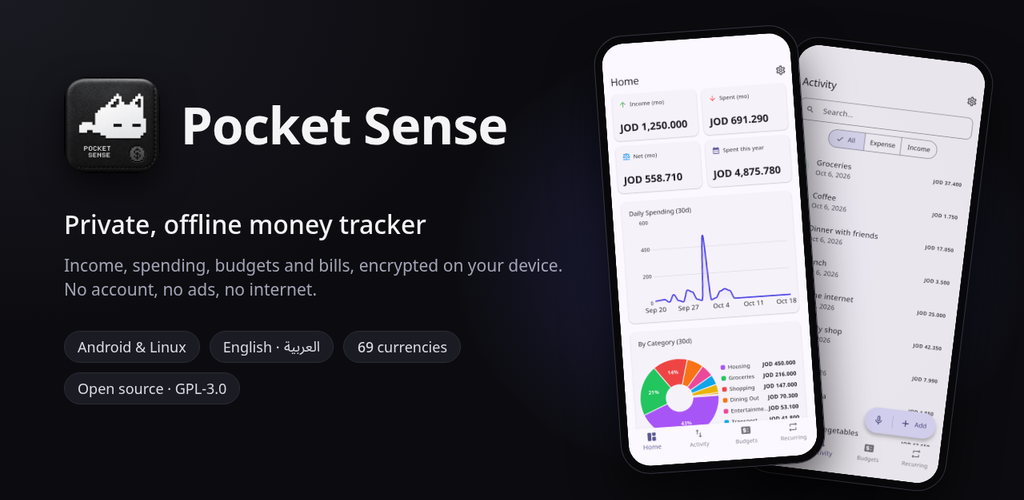
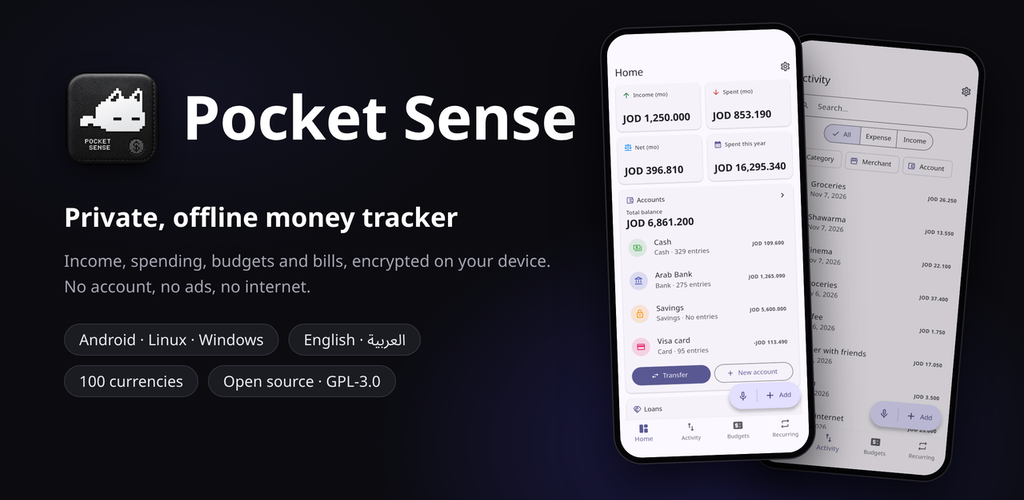
(change) Feature graphic: Windows, 100 currencies and 2.7.0's screens.
The README's top image and F-Droid's banner: platforms now name Windows,
the currency chip says 100, and the phones show 2.7.0's Home (with its
Add button) and Activity. It's the new GitHub social preview at 80%,
cropped to 1024x500, as before.

diff --git a/README.md b/README.md
@@ -1,6 +1,6 @@
 # Pocket Sense
 
-![Pocket Sense: a private, offline money tracker for Android and Linux, in English and Arabic](fastlane/metadata/android/en-US/images/featureGraphic.png)
+![Pocket Sense: a private, offline money tracker for Android, Linux and Windows, in English and Arabic](fastlane/metadata/android/en-US/images/featureGraphic.png)
 
 [![Sponsor](https://img.shields.io/github/sponsors/software-ace?label=Sponsor&logo=GitHub%20Sponsors&color=ea4aaa)](https://github.com/sponsors/software-ace)
 [![Latest release](https://img.shields.io/github/v/release/software-ace/PocketSense)](../../releases/latest)
